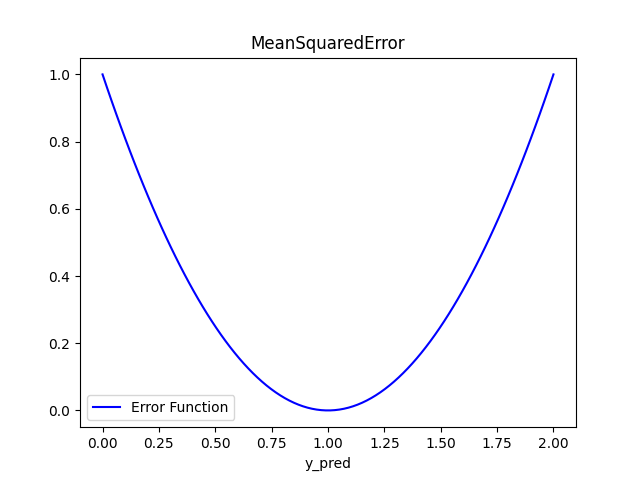
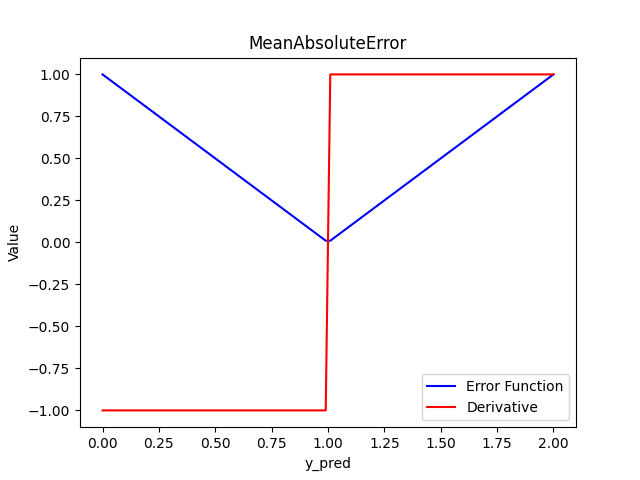
feat: affichage de la dérivée des fonctions d'erreur

diff --git a/mlkit/linear_model/error_functions.py b/mlkit/linear_model/error_functions.py
@@ -12,36 +12,45 @@ class ErrorFunction:
         raise NotImplementedError("Subclasses should implement this method.")
 
 class MeanSquaredError(ErrorFunction):
-    def function(self, y_true:np.ndarray, y_pred:np.ndarray) -> np.ndarray:
-        return (y_true - y_pred) ** 2
-    def compute(self, y_true:np.ndarray, y_pred:np.ndarray) -> float:
-        return ((y_true - y_pred) ** 2).mean()
+    def function(self, y_true: np.ndarray, y_pred: np.ndarray) -> np.ndarray:
+        return ((y_true - y_pred) ** 2) / y_true.shape[0]
 
-class MeanAbsoluteError(ErrorFunction):
-    def function(self, y_true:np.ndarray, y_pred:np.ndarray) -> np.ndarray:
+    def compute(self, y_true: np.ndarray, y_pred: np.ndarray) -> float:
+        return np.mean((y_true - y_pred) ** 2)
+
+    def derivative(self, y_true: np.ndarray, y_pred: np.ndarray) -> np.ndarray:
+        n = y_true.shape[0]
+        return (2 / n) * (y_pred - y_true)
+
+import numpy as np
+
+class MeanAbsoluteError:
+    def function(self, y_true: np.ndarray, y_pred: np.ndarray) -> np.ndarray:
         return np.abs(y_true - y_pred)
-    def compute(self, y_true:np.ndarray, y_pred:np.ndarray) -> float:
-        return np.abs(y_true - y_pred).mean()
+
+    def compute(self, y_true: np.ndarray, y_pred: np.ndarray) -> float:
+        return np.mean(np.abs(y_true - y_pred))
+
+    def derivative(self, y_true: np.ndarray, y_pred: np.ndarray) -> np.ndarray:
+        return np.where(y_pred > y_true, 1, np.where(y_pred < y_true, -1, 0))
+
 
 def plot_function(error_function: ErrorFunction, y_true=1.0, y_pred_range=(0, 2), num_points=100):
     """Plot the error function in blue and its derivative in red."""
     y_pred = np.linspace(y_pred_range[0], y_pred_range[1], num_points)
     y_true_arr = np.full_like(y_pred, y_true)
     errors = error_function.function(y_true_arr, y_pred)
-    print(errors, y_pred)
+
+    derivatives = error_function.derivative(y_true_arr, y_pred)
+
     plt.plot(y_pred, errors, color='blue', label='Error Function')
+    plt.plot(y_pred, derivatives, color='red', label='Derivative')
     plt.xlabel('y_pred')
+    plt.ylabel('Value')
     plt.title(f'{error_function.__class__.__name__}')
     plt.legend()
     plt.savefig("figures/error_function.png")
     plt.show()
 
 if __name__ == "__main__":
-    a = np.array([1])
-    print(a)
-
-    b = np.array([0])
-
-    print(MeanSquaredError().compute(a, b))
-
-    plot_function(MeanSquaredError())
+    plot_function(MeanAbsoluteError())
